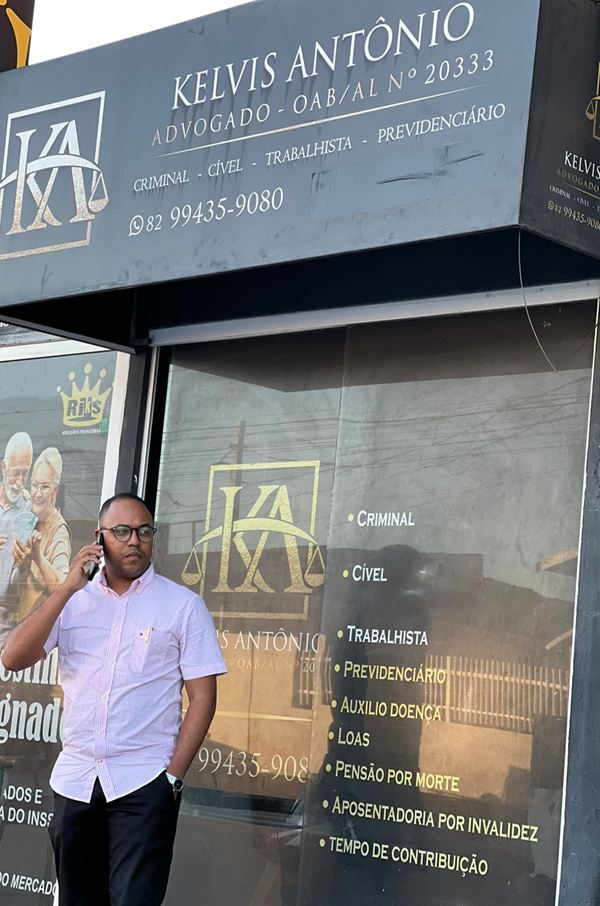
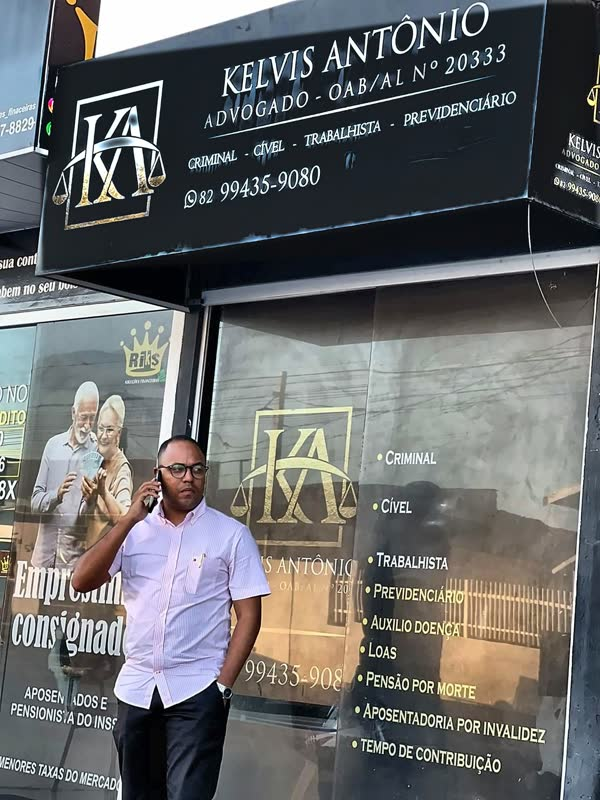
Texto da equipe nas áreas e nova foto da fachada

diff --git a/index.html b/index.html
@@ -230,7 +230,7 @@
             <h2 class="title title--light" data-reveal style="--d:.1s">Quatro áreas, <em>um só advogado</em></h2>
           </div>
           <p class="section-head__text" data-reveal style="--d:.2s">
-            Orientação e atuação em demandas administrativas e judiciais, sempre a partir da análise individual de cada caso.
+            A atuação jurídica é conduzida pessoalmente pelo Dr. Kelvis Antônio, que conta com o suporte de uma equipe preparada para acompanhar cada etapa do atendimento. O escritório oferece orientação e atuação em demandas administrativas e judiciais, sempre a partir da análise individual e criteriosa de cada caso.
           </p>
         </div>
 
@@ -333,7 +333,7 @@
     <section class="perks section" id="avaliacoes">
       <div class="container perks__grid">
         <figure class="perks__img reveal-img" data-reveal>
-          <img src="assets/img/fachada.jpg" width="1060" height="1600" alt="Kelvis Antônio em frente ao escritório, com a placa que mostra o nome, a OAB/AL 20333 e as áreas de atuação" loading="lazy">
+          <img src="assets/img/fachada.jpg" width="1200" height="1600" style="object-position:50% 55%" alt="Kelvis Antônio em frente ao escritório, com a placa que mostra o nome, a OAB/AL 20333 e as áreas de atuação" loading="lazy">
         </figure>
         <div class="perks__body">
           <p class="eyebrow" data-reveal><span class="num">04</span> Avaliações</p>
